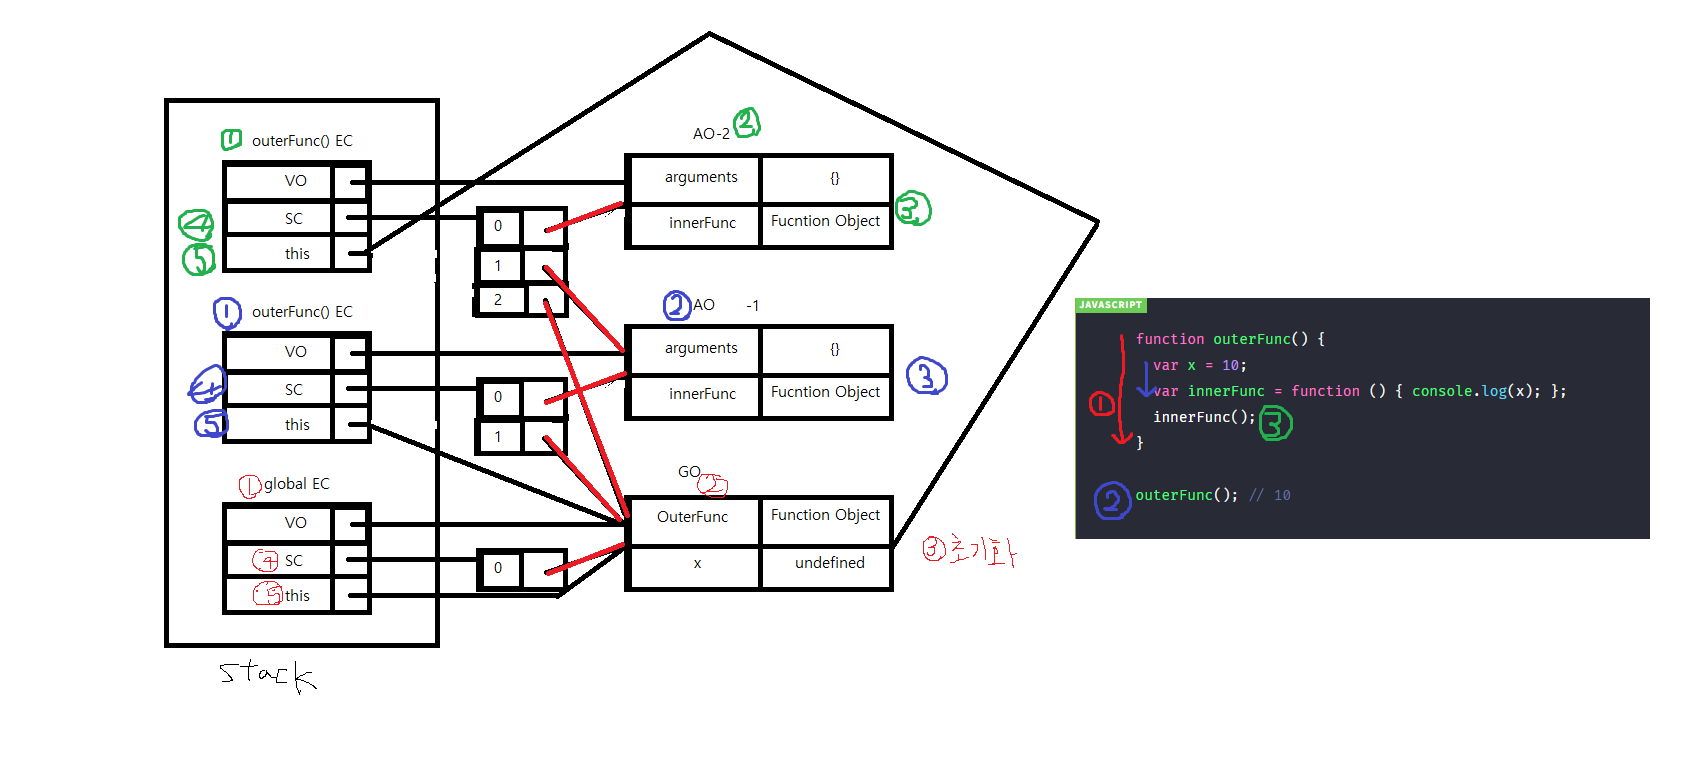
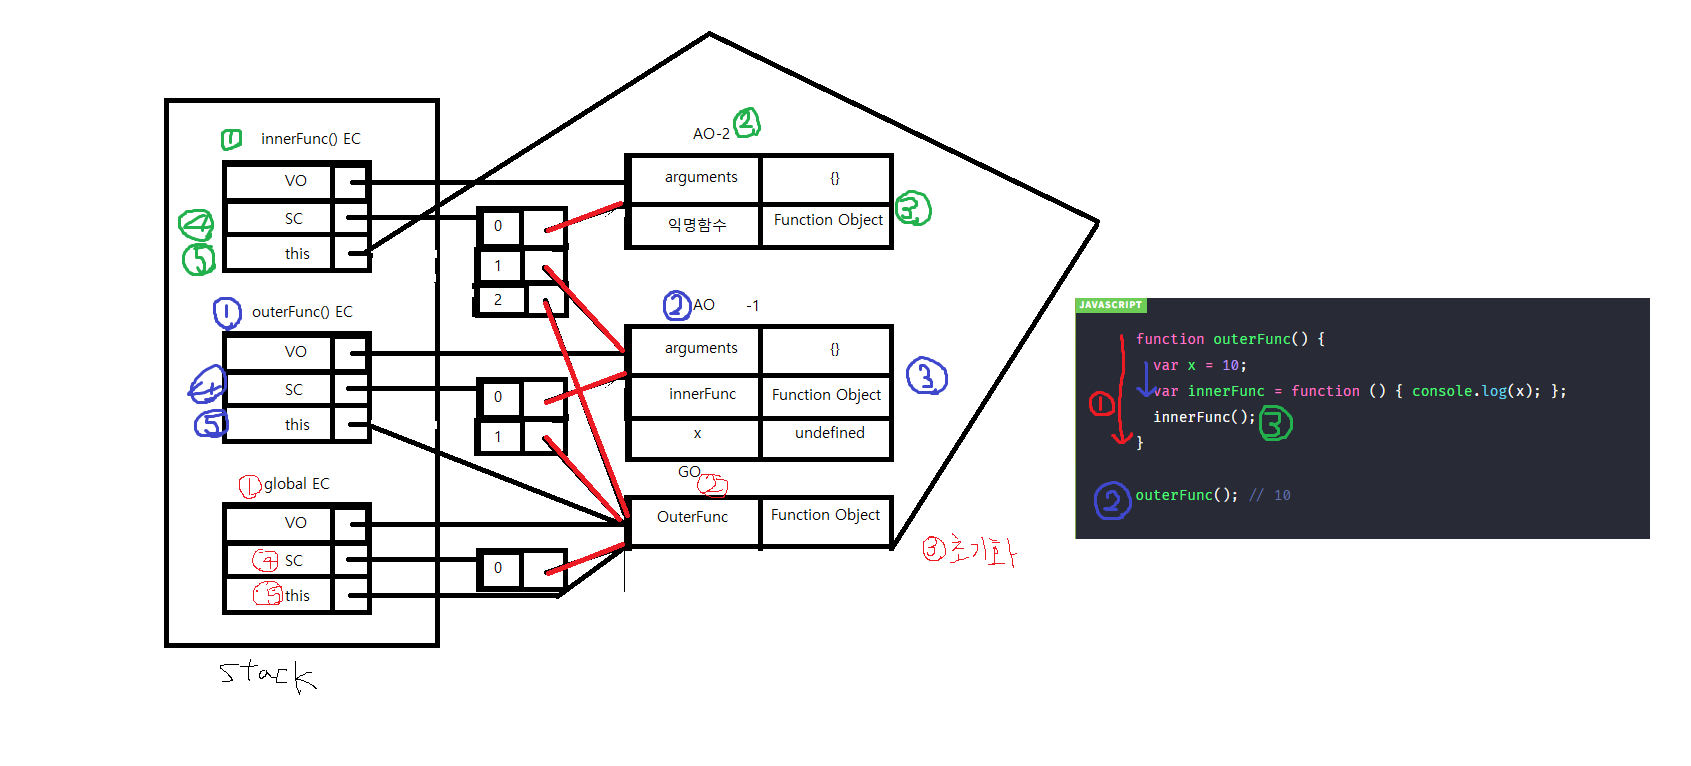
JS Study closure

diff --git a/(220311)클로저.md b/(220311)클로저.md
@@ -19,6 +19,8 @@ outerFunc(); // 10
 함수 outerFunc 내에서 내부 함수 innerFunc가 선언되고 호출되었다. 이때 내부함수 innerFunc는 자신을 포함하고 있는 외부함수 outerFunc의 변수 x에 접근할 수 있다. 이는 함수 innerFunc가 함수 outerFunc의 내부에 선언되었기 때문이다.
 
 > 스코프는 함수를 호출할 때가 아니라 함수를 어디서 선언하는지에 따라 결정된다.(렉시컬 스코프) 위 예제의 함수 innerFunc는 outerFunc 내부에서 선언되었기 때문에 innerFunc의 상위 스코프는 함수 outerFunc이다. 함수 innerFunc가 전역에서 선언되었다면 함수 innerFunc의 상위 스코프는 전역 스코프가 된다.
+>
+> 따라서 만약 전역에서 전언된 innerFunc를 outerFunc 내부에서 호출한다 하더라도 outerFunc의 변수에 접근할 수 없다.
 
 따라서 innerFunc는 자기 자신의 스코프, outerFunc, 전역 스코프를 모두 참조할 수 있다.
 
@@ -30,9 +32,36 @@ outerFunc(); // 10
 
 > 함수 컨텍스트의 경우 AO라는 활성 객체를 가리키며 컨트롤이 넘어갔을때( 코드가 실행 되었을 때) (함수 컨텍스트가)생성되어 스택에 쌓인다.
 
-- 렉시컬 스코프 예
 
-![image-20220311062752021](image-20220311062752021.png)
+
+
+
+
+
+#### 렉시컬 스코프 : 자바스크립트 엔진은 함수를 어디서 호출했는지가 아니라 함수를 어디에 정의했는지에 따라 상위 스코프를 결정한다.
+
+예제코드
+
+```js
+const x = 1;
+function foo(){
+    const x = 10;
+    bar();
+}
+function bar(){
+    console.log(x);
+}
+foo(); // 전역에서 선언함 foo의 내부함수 bar가 실행됨. -> bar가 실행될때 x를 출력하는데 x를 찾는 스코프가 function foo가 아니라 전역 스코프이다.
+bar(); // 전역에서 선언함. foo라는 함수 내부에서 const x 가 있지만 선언을 전역에서 했기때문에 상위스코프는 전역 스코프가 된다 따라서 1
+```
+
+
+
+# 위 코드를 다시 말하자면, 렉시컬 스코프(스코프 체인이 참조할 스코프 범위 설정)가가능하려면 정의된 환경이 어디인지를 함수가 기억해야한다.
+
+이를 저장하는 곳을 함수 내부 슬롯 [[Environment]]라 한다. (사실 그냥 저장하는 것이 아니라 참조 형태로 저장함 -> 따라서 가비지 컬렉션의 대상이 되지 않는다.)
+
+
 
 
 
@@ -68,6 +97,36 @@ return 이 있다는것 == 실행컨텍스트가 종료된다는 것
 여기서 클로저에 의해 참조되는 외부함수의 변수 즉 outerFunc함수의 변수를 자유변수라고 부른다.
 
 ![image-20220311063637367](C:\Users\ssong\Desktop\JS\image-20220311063637367.png)
+
+
+
+
+
+#### 그렇다면 자바스크립트의 모든 함수는 상위 스코프를 기억하므로 이론적으로는 모든 함수가 클로저다. 하지만 일반적으로 모든 함수를 클로저라 부르지 않는다.
+
+
+
+왜냐
+
+![image-20220315001333480](image-20220315001333480.png)
+
+지금 원래라면 bar가 상위 스코프를 environment 내부슬롯에 기억해야해서 Closure가 나와야 한다.
+
+하지만 bar에서 상위 스코프의 어떤 식별자도 참조하지 않는 경우 대부분의 모던 브라우저는 최적화를 통해 위와같이 상위 스코프를 기억하지 않는다.(메모리 낭비 줄임) 때문에 bar는 클로저라 할 수 없다.
+
+
+
+
+
+하지만 아래의 경우 bar의 상위 스코프에 대한 참조값이 (y) 존재한다. 따라서 closure라 할 수 있다
+
+![image-20220315001820301](image-20220315001820301.png)
+
+
+
+
+
+
 
 
 
@@ -175,6 +234,36 @@ return 이 있다는것 == 실행컨텍스트가 종료된다는 것
 
 
 
+```js
+// 2. 아래 즉시 실행 함수가 실행되고 그 return값(여기서는 function (){return ++num})이 increase 변수에 담김 => 즉시 실행 함수의 렉시컬 환경을 기억함.
+// 따라서 increase 는 num을 언제 어디서든 호출하고 변경 가능함.
+const increase = (function(){
+    let num = 0
+    return function (){
+        return ++num;
+    }
+}());
+
+//1 실행
+console.log(increase());
+console.log(increase());
+console.log(increase());
+```
+
+
+
+이때 즉시실행함수는 한번만 실행되므로, increase가 호출될 때마다 num 변수가 재차 초기화될 일이 없다.
+
+
+
+
+
+
+
+
+
+
+
 ```html
 <!DOCTYPE html>
 <html>
@@ -258,13 +347,15 @@ console.log(decreaser()); // -2
 function Counter() {
   // 카운트를 유지하기 위한 자유 변수
   var counter = 0;
-
+	
   // 클로저
+    //인스턴스 메서드
   this.increase = function () {
     return ++counter;
   };
 
   // 클로저
+    //인스턴스 메서드
   this.decrease = function () {
     return --counter;
   };
@@ -278,9 +369,67 @@ console.log(counter.decrease()); // 0
 
 이때 생성자 함수 Counter의 변수 counter는 this에 바인딩된 프로퍼티가 아니라 변수다.
 
-만일 counter가 this에 바인딩된 프로퍼티라면 생성자 함수 Counter가 생성한 인스턴스르 통해 외부에서 접근이 가능(counter.counter)하지만 생성자 함수 Counter내에서 선언된 변수 counter는 생성자 함수 Counter 외부에서 접근할 수 없다. 하지만 생성자 함수가 생성한 메소드인 increase, decrease는 counter에 접근할 수 있기 때문에 private 키워드를 흉내낼 수 있다.
+![image-20220315003558097](image-20220315003558097.png)
+
+![image-20220315003934719](image-20220315003934719.png)
+
+(counter라는 프로퍼티가 없음)
+
+
+
+
+
+### (+ this로 생성된 인스턴스 메서드를 중복생성하는 것을 방지하기 위해 prototype 메서드로 변경할 수 있는데 프로토 타입은 클래스때 다시한번 설명하겠음.)
+
+
+
+
+
+ 만일 counter가 this에 바인딩된 프로퍼티라면 생성자 함수 Counter가 생성한 인스턴스르 통해 외부에서 접근이 가능(counter.counter)하지만 생성자 함수  Counter내에서 선언된 변수 counter는 생성자 함수 Counter 외부에서 접근할 수 없다. 하지만 생성자 함수가 생성한 메소드인 increase, decrease는 counter에 접근할 수 있기 때문에 private 키워드를 흉내낼 수 있다.
 
 
 
 ![image-20220311072248537](image-20220311072248537.png)
 
+### 자주 하는 실수
+
+
+
+```js
+
+// var i 로 선언한 i 변수는 블록 레벨 스코프가 아닌 함수레벨 스코프를 갖기 때문에 전역 변수다.
+// i는 후위표기식이라 전역변수에서는 3 값으로 저장되고(stackoverflow에 질문했는데 답변이 사라짐)  i 값이 3으로 출력된다.
+
+for (var i = 0; i <3; i++){
+    funcs[i] = function(){return i;};
+}
+for (var j = 0; j < funcs.length; j++){
+    console.log(funcs[j]());
+}
+
+
+
+
+
+
+//let 키워드로 선언한 변수를 사용할 경우 for문이 반복 실행 될때마다 새로운 렉시컬 환경이 생성된다. 이때 함수의 상위 스코프는 for 문이 반복될때마다 식별자의 값을 유지한다.
+
+for (let i = 0; i <3; i++){
+    funcs[i] = function(){return i;};
+}
+for (let j = 0; j < funcs.length; j++){
+    console.log(funcs[j]());
+}
+```
+
+
+
+
+
+
+
+
+
+
+
+![image-20220315005003988](image-20220315005003988.png)
